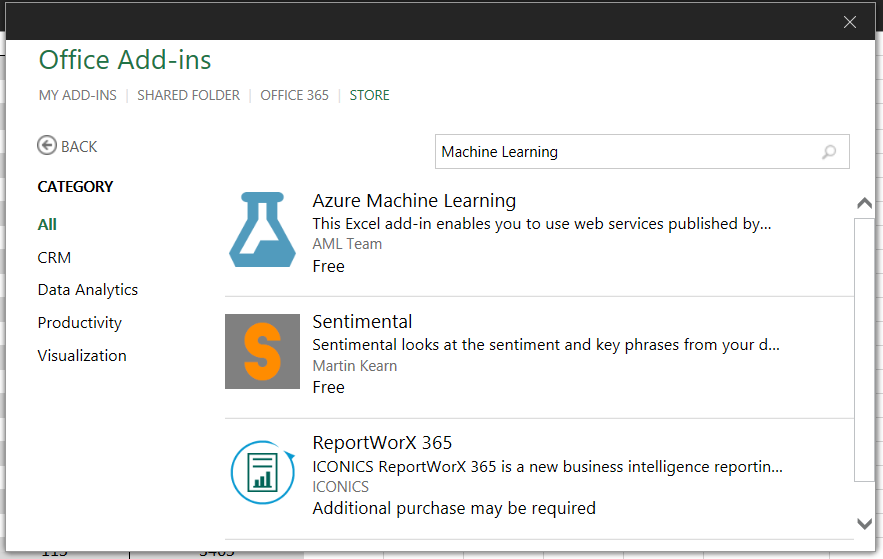
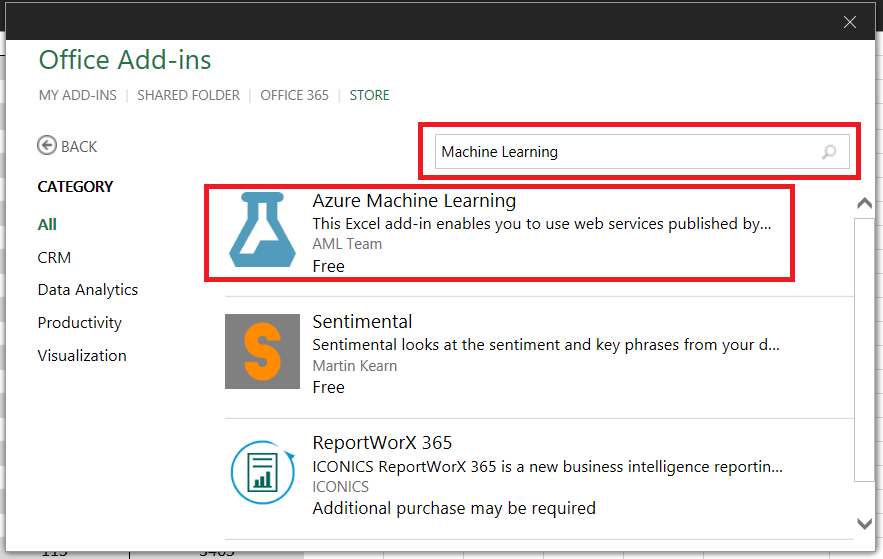
Update README.md

Changed region(s): [[0.214, 0.2129, 0.9785, 0.517]]

diff --git a/01-Prevendo-valores-no-Excel/README.md b/01-Prevendo-valores-no-Excel/README.md
@@ -44,9 +44,16 @@ Renomeie o nome do experimento para **Apartamentos Exp**:
 Uma vez realizado o passo anterior, podemos utilizar o Excel como interface para prever quaisquer valores de entrada neste mesmo schema.
 Abra o arquivo **Apartamentos_Relatorio.xlsx** e certifique-se que está na planilha *Apartamentos - Multipla*. Vá na aba Insert (Inserir), clicando no botão Store (Suplementos):
 >Caso não tenha o Microsoft Excel em sua máquina, logue-se em https://office.live.com/start/Excel.aspx e reproduza os mesmos passos a seguir.
+
  ![Add App](https://github.com/allantargino/AzureSolutionlets/blob/master/01-Prevendo-valores-no-Excel/images/p2-img01.png)
-![Renomear](https://github.com/allantargino/AzureSolutionlets/blob/master/01-Prevendo-valores-no-Excel/images/p2-img02.png)
-![Renomear](https://github.com/allantargino/AzureSolutionlets/blob/master/01-Prevendo-valores-no-Excel/images/p2-img03.png)
+ 
+ Pesquise por *Machine Learning* pressionando enter, cliquando no resultado da figura mostrada abaixo:
+![Add App](https://github.com/allantargino/AzureSolutionlets/blob/master/01-Prevendo-valores-no-Excel/images/p2-img02.png)
+
+Clique em **Trust** para adicionar o Excel Add-in a sua solução:
+![Add App](https://github.com/allantargino/AzureSolutionlets/blob/master/01-Prevendo-valores-no-Excel/images/p2-img03.png)
+
+
 ![Renomear](https://github.com/allantargino/AzureSolutionlets/blob/master/01-Prevendo-valores-no-Excel/images/p2-img04.png)
 ![Renomear](https://github.com/allantargino/AzureSolutionlets/blob/master/01-Prevendo-valores-no-Excel/images/p2-img05.png)
 ![Renomear](https://github.com/allantargino/AzureSolutionlets/blob/master/01-Prevendo-valores-no-Excel/images/p2-img06.png)
